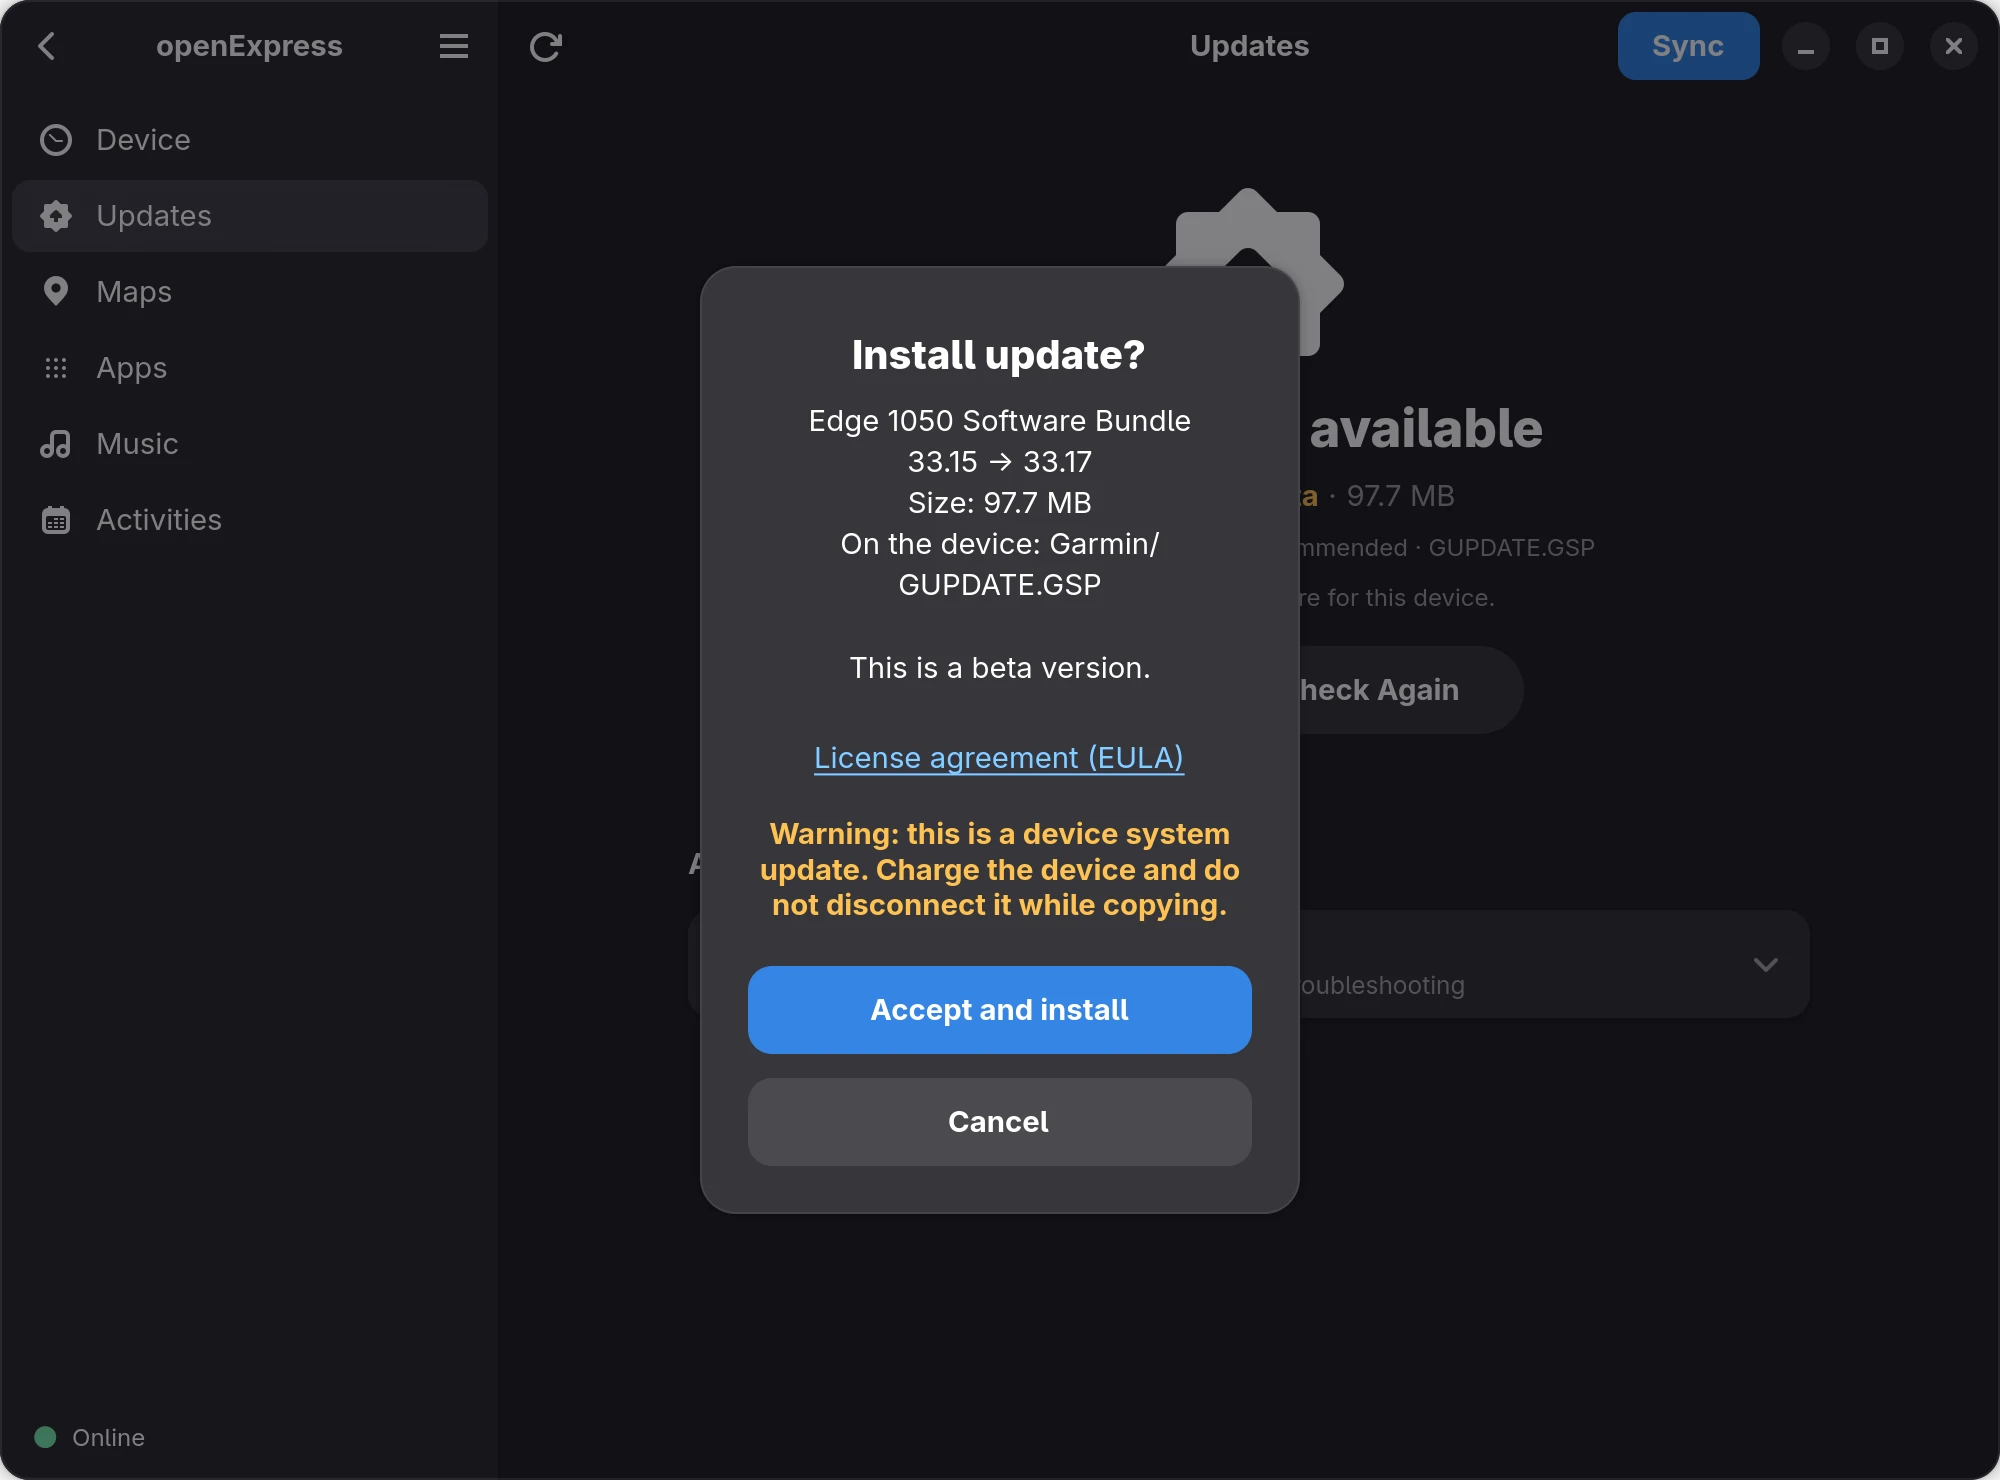
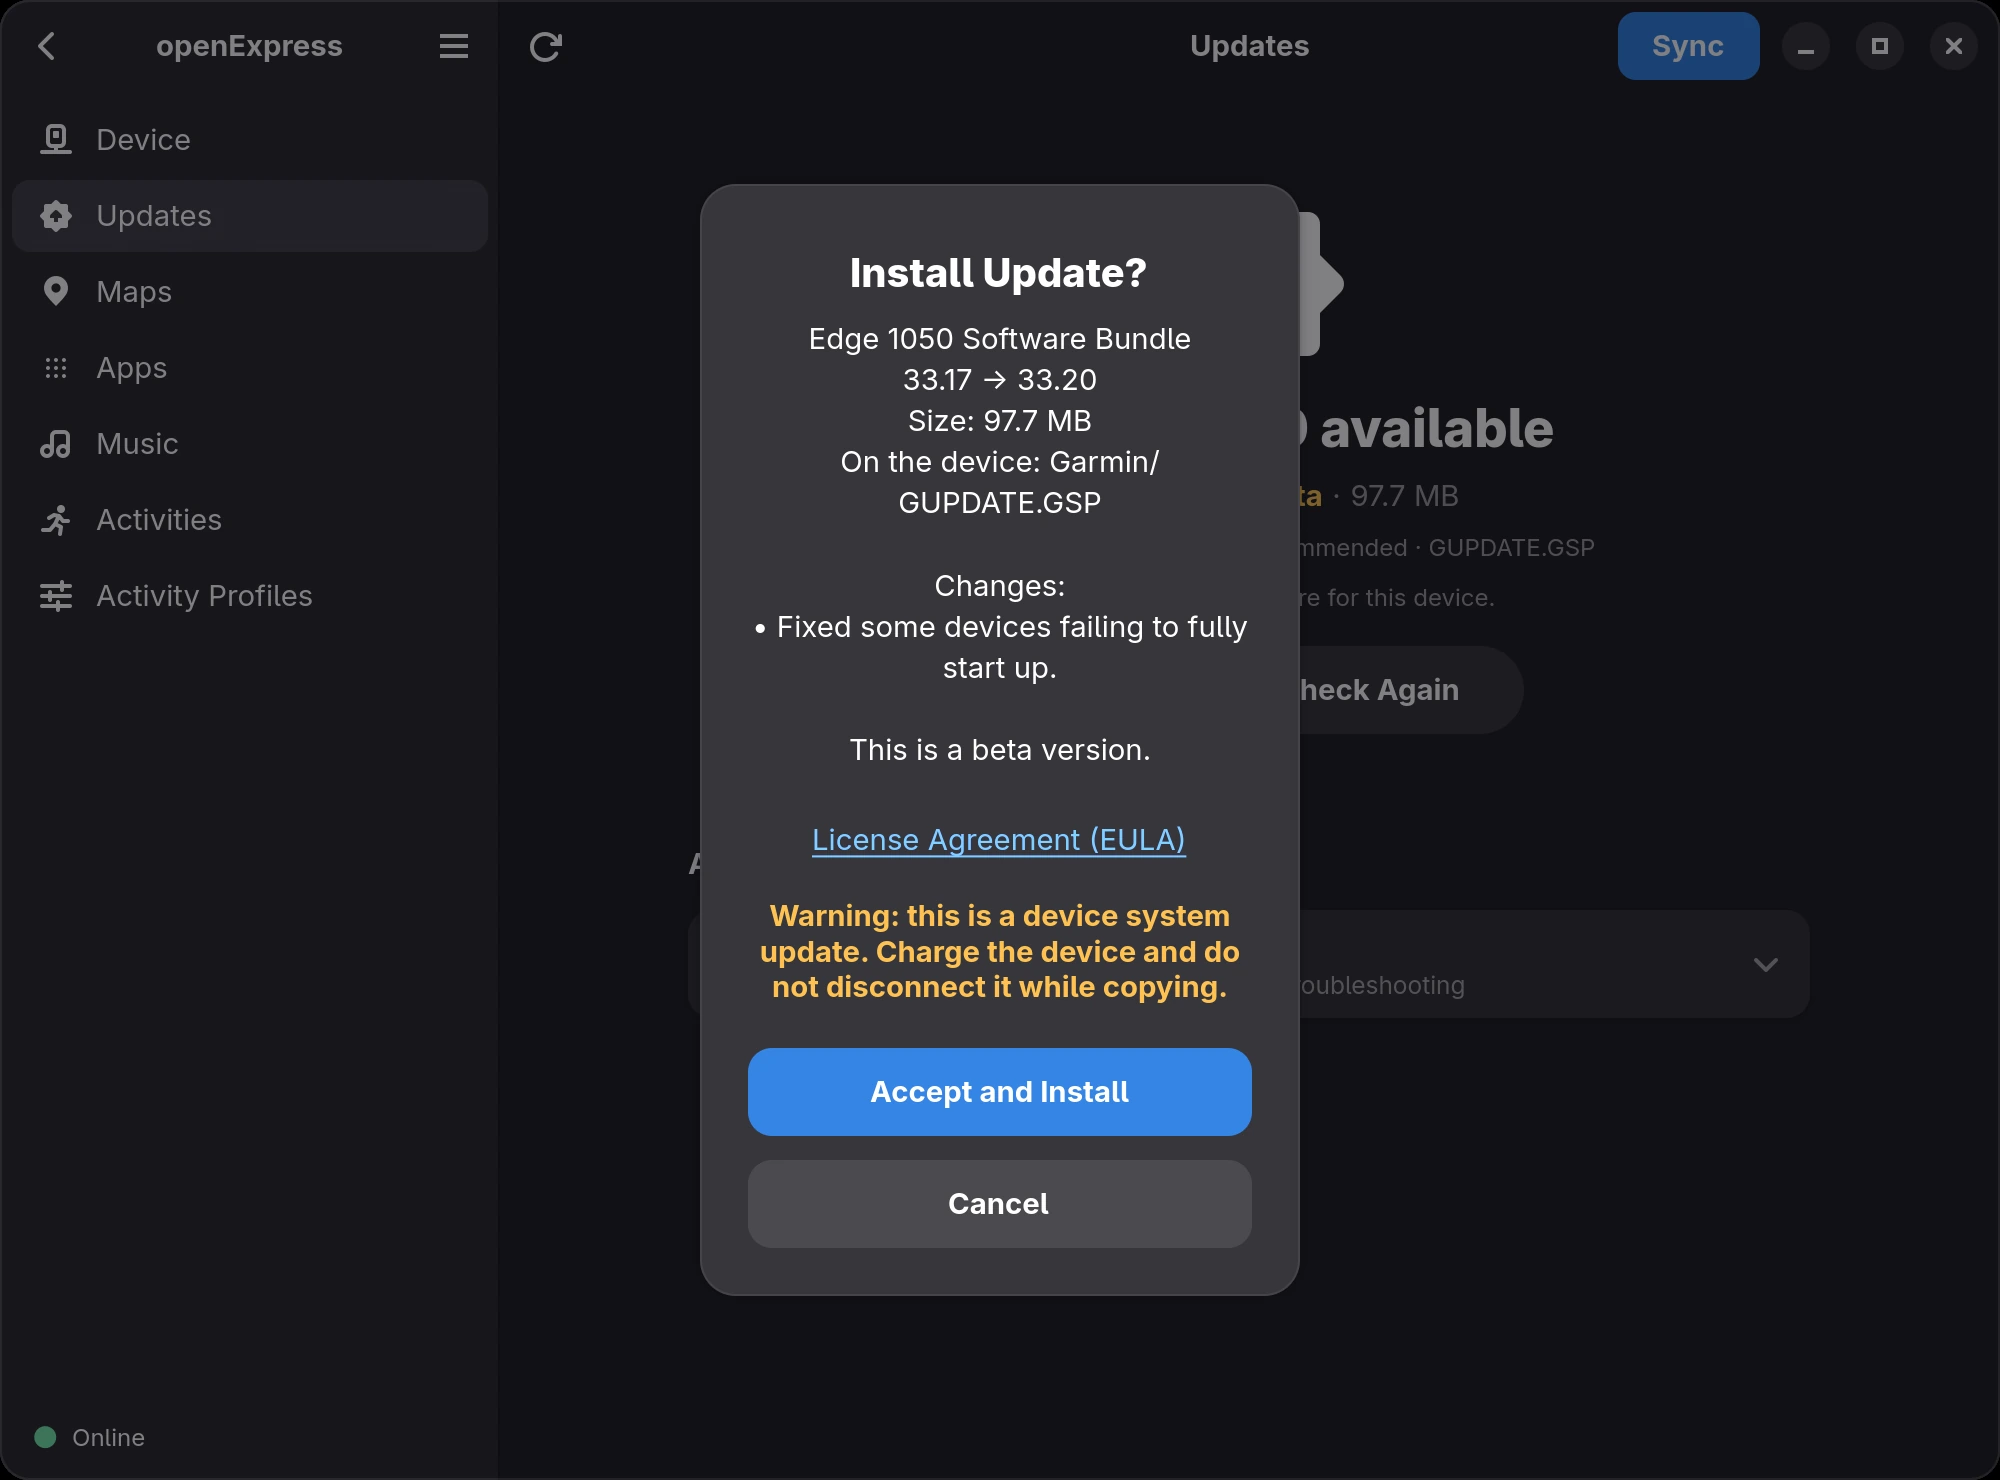
Website: the Updates screenshots with the labels of GNOME's guidelines

diff --git a/index.html b/index.html
@@ -155,7 +155,7 @@ flatpak install --user bojanowski io.github.tomaszbojanowski.OpenExpress</code><
         <a class="zoom" href="screenshots/full/light-updates.webp" data-dark="screenshots/full/dark-updates.webp">
           <picture>
             <source media="(prefers-color-scheme: dark)" srcset="screenshots/dark-updates.webp">
-            <img src="screenshots/light-updates.webp" width="1400" height="1036" loading="lazy" alt="The Updates page of an Edge 1050: version 33.17 available, a beta, with Install and Check Again">
+            <img src="screenshots/light-updates.webp" width="1400" height="1036" loading="lazy" alt="The Updates page of an Edge 1050: version 33.20 available, a beta, with Install and Check Again, and Reinstall Components under Advanced">
           </picture>
         </a>
         <figcaption>Updates for the device and its components, straight from Garmin</figcaption>
@@ -164,7 +164,7 @@ flatpak install --user bojanowski io.github.tomaszbojanowski.OpenExpress</code><
         <a class="zoom" href="screenshots/full/light-update-confirm.webp" data-dark="screenshots/full/dark-update-confirm.webp">
           <picture>
             <source media="(prefers-color-scheme: dark)" srcset="screenshots/dark-update-confirm.webp">
-            <img src="screenshots/light-update-confirm.webp" width="1400" height="1036" loading="lazy" alt="The question before an update is installed: the version, its size and where it goes on the device, that it is a beta, the license agreement and a warning about a system update">
+            <img src="screenshots/light-update-confirm.webp" width="1400" height="1036" loading="lazy" alt="The question before an update is installed: the versions, its size and where it goes on the device, what changes, that it is a beta, the license agreement and a warning about a system update">
           </picture>
         </a>
         <figcaption>Before anything is written, openExpress shows what changes and warns when Garmin offers a&nbsp;beta</figcaption>
